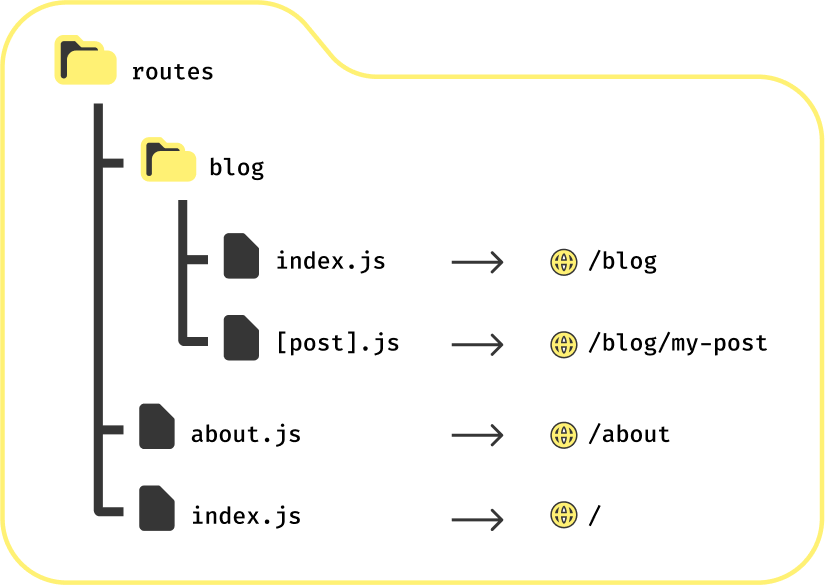
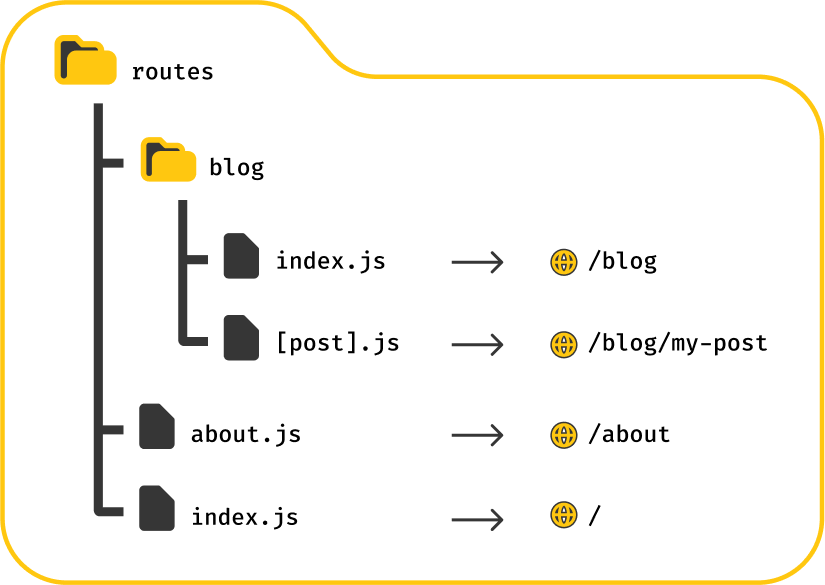
docs: update brand colour

diff --git a/docs/.vitepress/theme/index.js b/docs/.vitepress/theme/index.js
@@ -1,0 +1,4 @@
+import Theme from 'vitepress/theme';
+import './custom.css';
+
+export default Theme;

diff --git a/docs/.vitepress/theme/custom.css b/docs/.vitepress/theme/custom.css
@@ -1,0 +1,4 @@
+:root {
+    --c-brand: #ffc710;
+    --c-brand-light: #fbd24d;
+}
